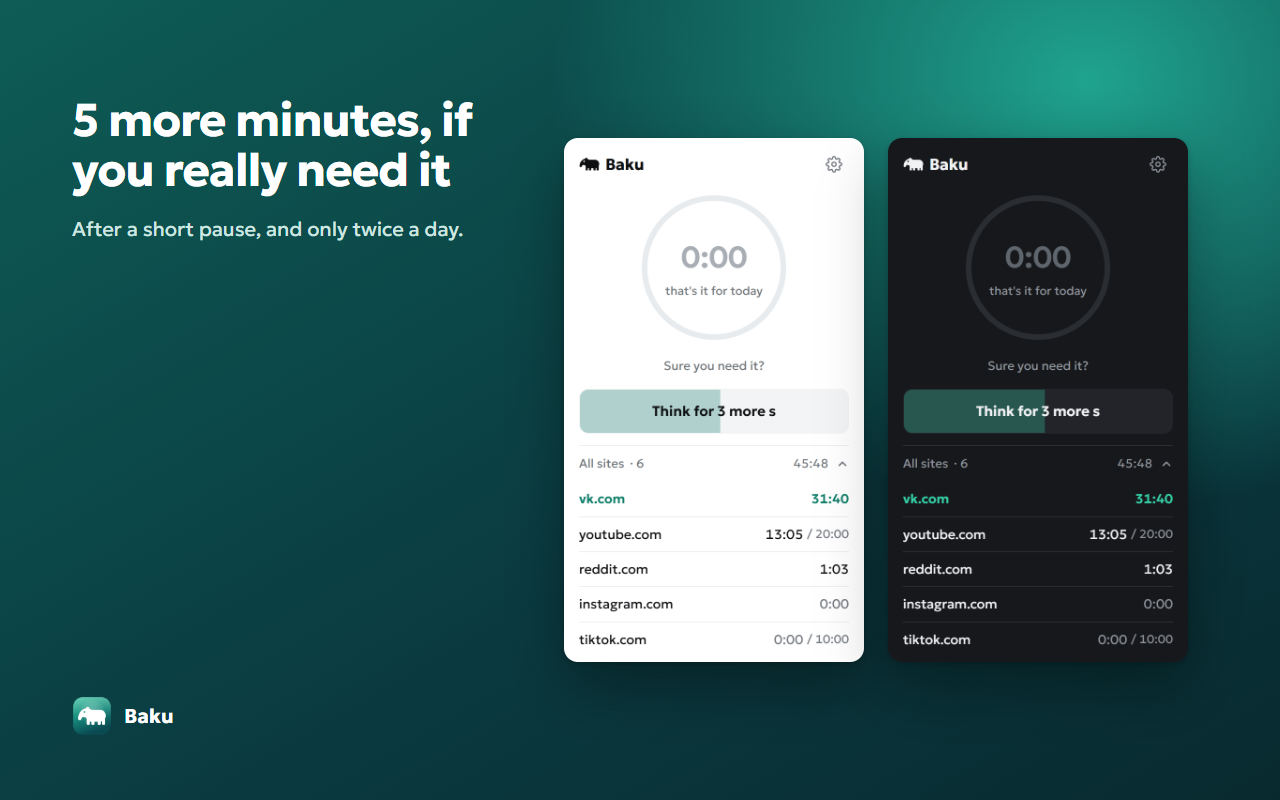
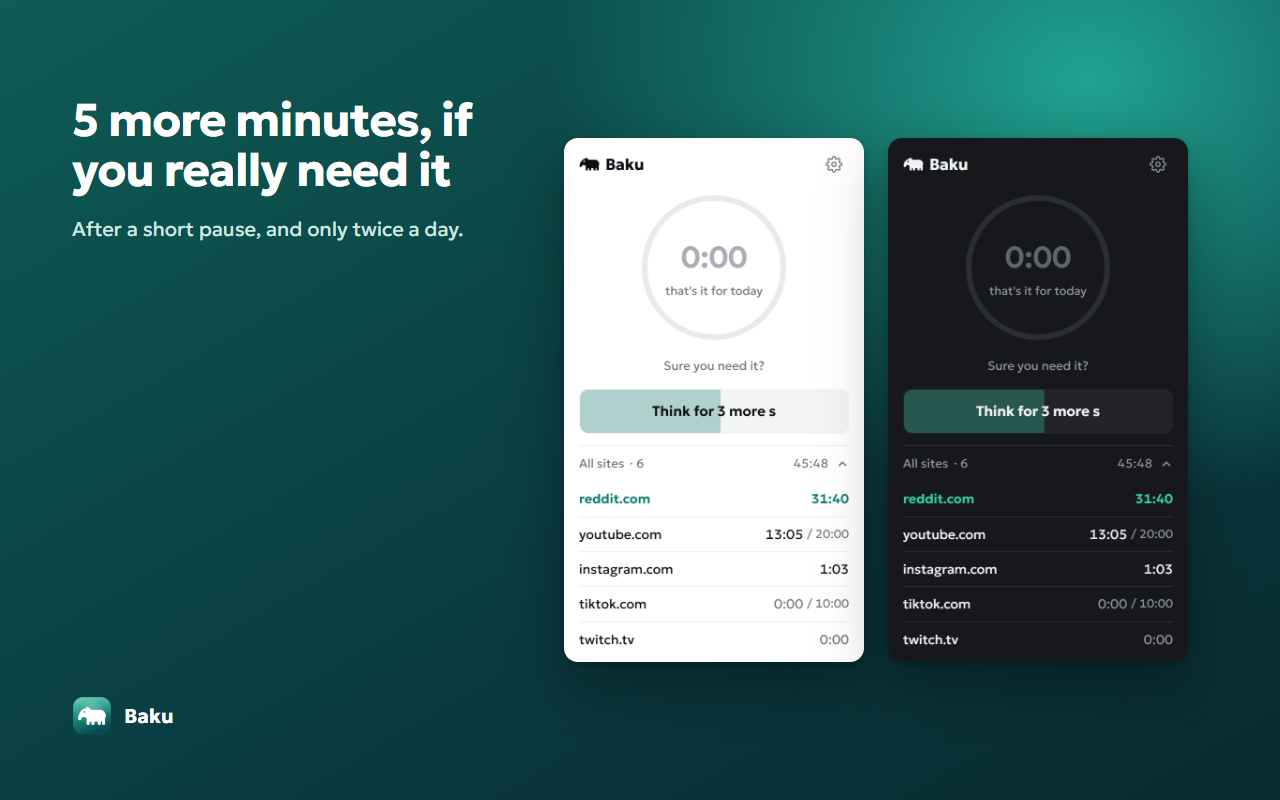
Drop VK from English screenshots; calm the hero slider
- Store and site images use per-language sites: English shows Reddit and
  Instagram Direct instead of VK, which isn't used outside Russian speakers
- The before/after line on the site now sways about 20 px instead of
  sweeping 40% of the width

diff --git a/site/demo.js b/site/demo.js
@@ -1,10 +1,13 @@
 // The before/after demo on the first screen: a range input over the illustration moves the
-// line between the color and the faded copy. Until someone touches it, the line drifts slowly
-// so the effect is visible on its own.
+// line between the color and the faded copy. Until someone touches it, the line sways gently
+// (about 20 px in total) so it reads as something you can drag.
 (() => {
   const demo = document.querySelector('.demo');
   if (!demo) return;
   const input = demo.querySelector('input');
+  const START = 55; // percent
+  const SWAY_PX = 10; // each way
+  const PERIOD_MS = 4000;
   const set = (v) => {
     demo.style.setProperty('--pos', `${v}%`);
     input.value = String(v);
@@ -19,9 +22,8 @@
   const t0 = performance.now();
   const tick = (t) => {
     if (touched) return;
-    // ease between 35% and 75% over ~7 s
-    const phase = ((t - t0) / 7000) * Math.PI * 2;
-    set(Math.round((55 + 20 * Math.sin(phase)) * 10) / 10);
+    const sway = (SWAY_PX / Math.max(1, demo.clientWidth)) * 100;
+    set(START + sway * Math.sin(((t - t0) / PERIOD_MS) * Math.PI * 2));
     requestAnimationFrame(tick);
   };
   requestAnimationFrame(tick);
